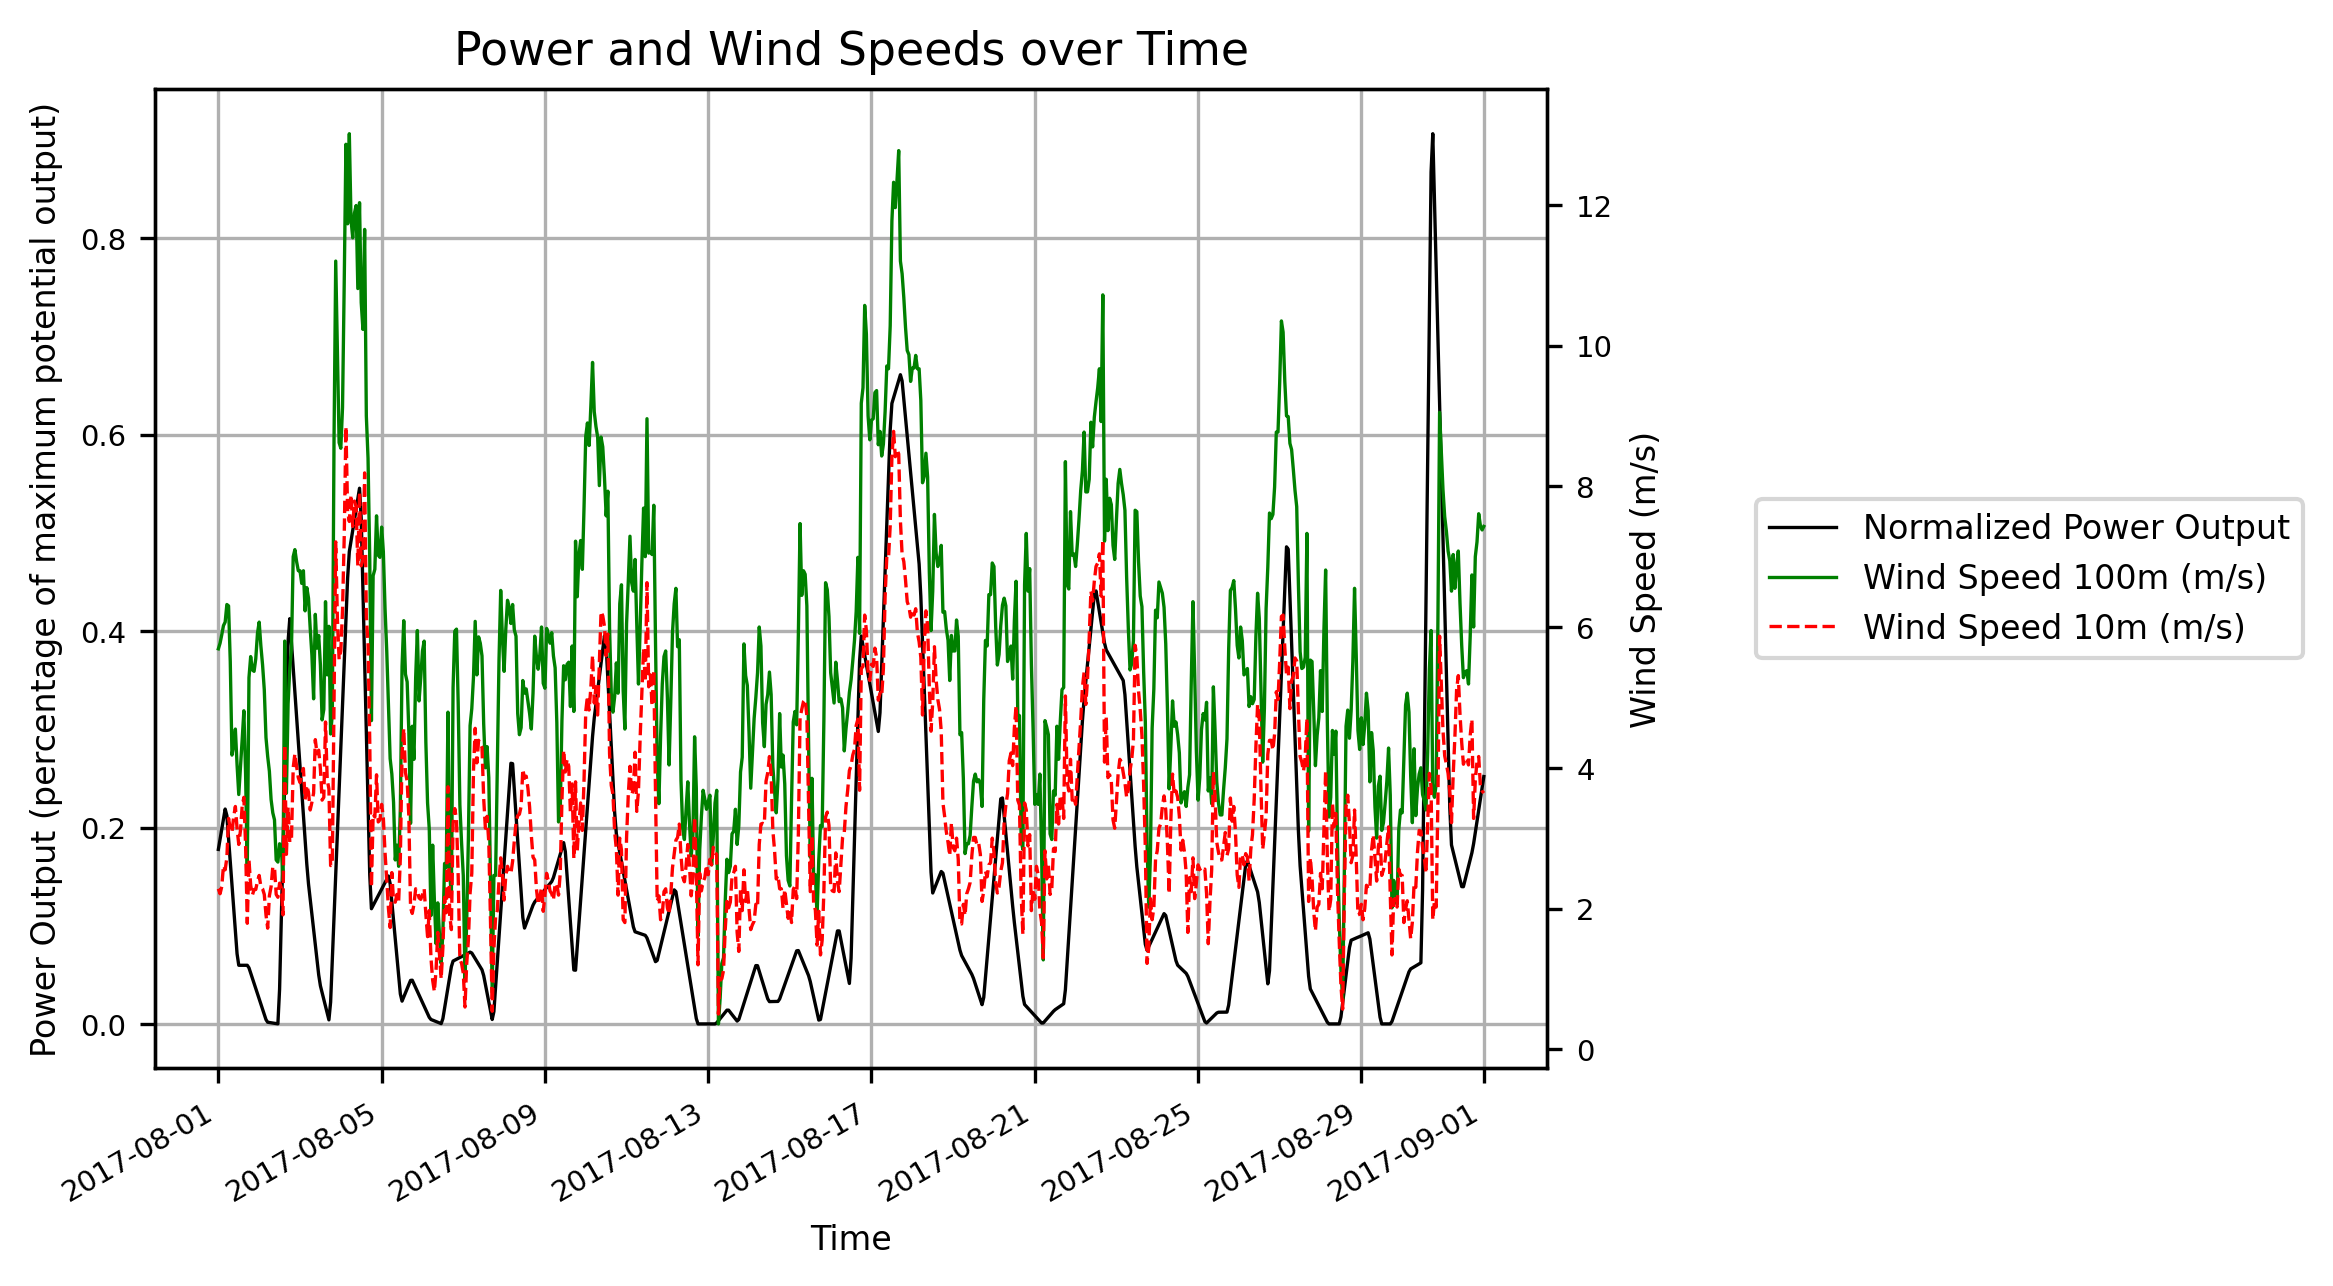
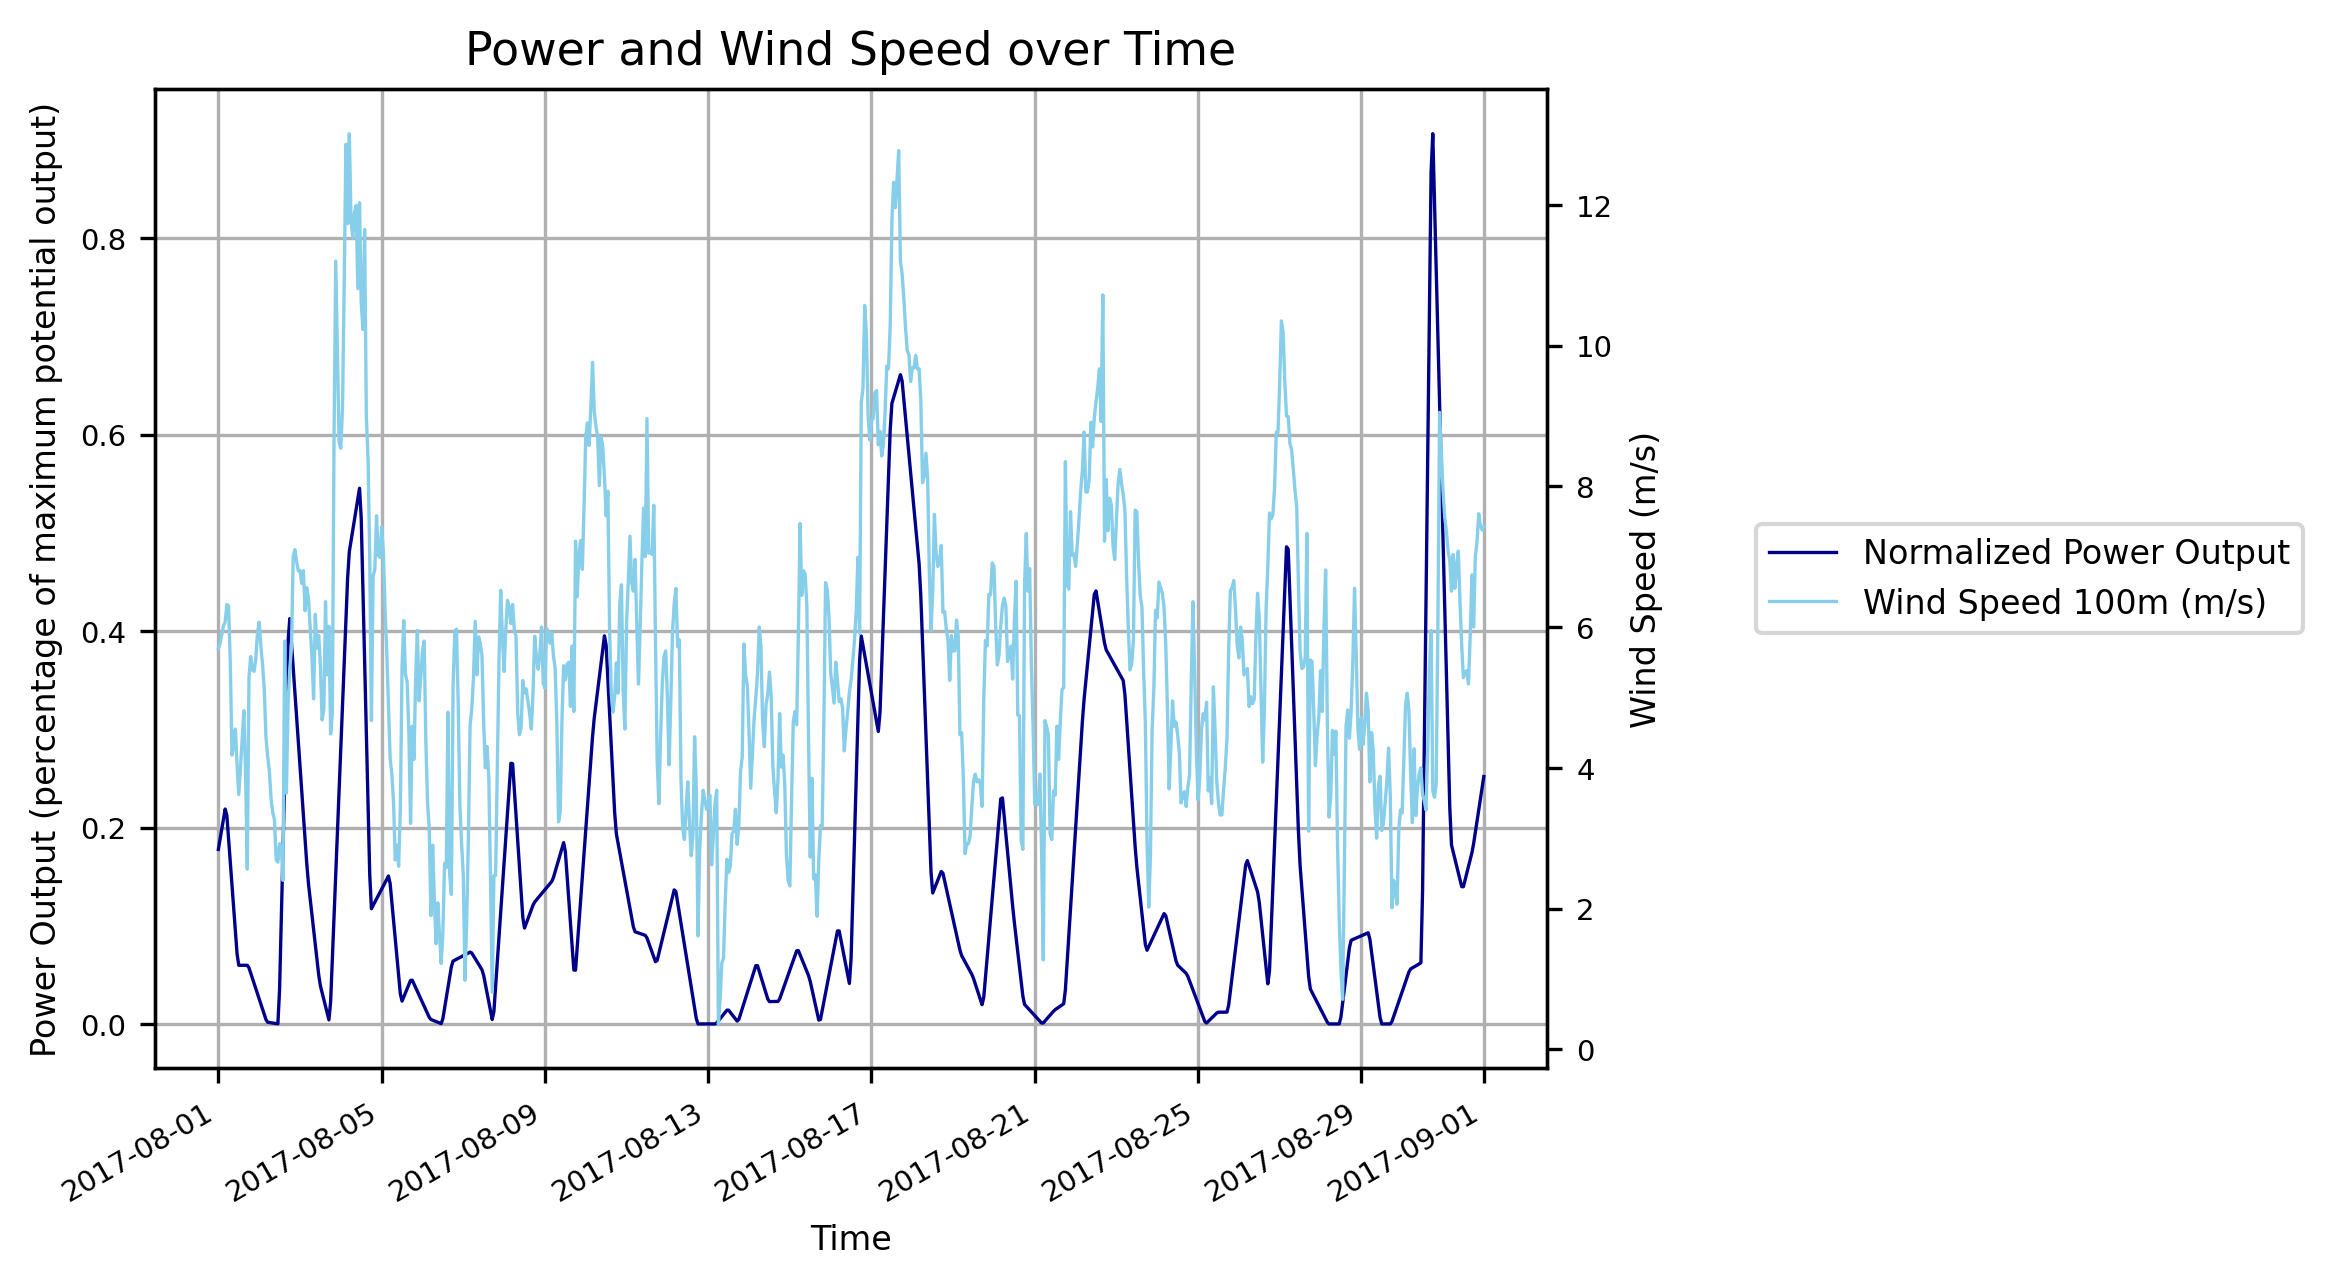
Updated error measures function, updated graph colours, updated README file

diff --git a/src/B_data_visualisation.py b/src/B_data_visualisation.py
@@ -33,27 +33,25 @@ def timeseries_plot(data, start_time, end_time):
 
     # We plot normalized power (first y-axis)
     line1, = ax1.plot(data_filtered['Time'], data_filtered['Power'], 
-                      color='black', linestyle='-', label='Normalized Power Output', linewidth=0.8)
+                      color='darkblue', linestyle='-', label='Normalized Power Output', linewidth=0.8)
 
     # We plot wind speeds on secondary y-axis
     ax2 = ax1.twinx()
     line2, = ax2.plot(data_filtered['Time'], data_filtered['windspeed_100m'],
-                      color='green', linestyle='-', label='Wind Speed 100m (m/s)', linewidth=0.8)
-    line3, = ax2.plot(data_filtered['Time'], data_filtered['windspeed_10m'],
-                      color='red', linestyle='--', label='Wind Speed 10m (m/s)', linewidth=0.8)
+                      color='skyblue', linestyle='-', label='Wind Speed 100m (m/s)', linewidth=0.8)
 
     # We add labels and title
     ax1.set_xlabel('Time', fontsize=8)
     ax1.set_ylabel('Power Output (percentage of maximum potential output)', fontsize=8)
     ax2.set_ylabel('Wind Speed (m/s)', fontsize=8)
-    plt.title("Power and Wind Speeds over Time", fontsize=11)
+    plt.title("Power and Wind Speed over Time", fontsize=11)
 
     # We set the size of the tick labelse
     ax1.tick_params(axis='both', which='major', labelsize=7)
     ax2.tick_params(axis='both', which='major', labelsize=7)
 
     # We combine legends
-    lines = [line1, line2, line3]
+    lines = [line1, line2]
     labels = [line.get_label() for line in lines]
     fig.subplots_adjust(right=0.85)
     ax1.legend(lines, labels, loc='center left', bbox_to_anchor=(1.15, 0.5), borderaxespad=0, fontsize=8)

diff --git a/examples/main.py b/examples/main.py
@@ -41,7 +41,6 @@ if __name__ == "__main__":
     # We split data into traning and test data
     X_train, y_train, X_test, y_test = data_split(data=data, splittype="Sequential", prediction_horizon=1) 
 
-    
     ### Persistence Model
     # We use the persistence model to predict power output
     y_pred = persistence_model(y_train=y_train, y_test=y_test, lag=1)
@@ -81,7 +80,6 @@ if __name__ == "__main__":
     scatter_actualvspred(y_pred, y_test, model_name="neural_network", prediction_horizon=1)
     plot_actualvspred(y_pred, y_test, model_name="neural_network", prediction_horizon=1, subset_start=2000, subset_end=4000)
     plot_actualvspred(y_pred, y_test, model_name="neural_network", prediction_horizon=1, subset_start=500, subset_end=700)
-    
     
     ### Forecast: 6 hours ahead 
     # Assuming no weather forecast is provided - forecast is based on current and past weather data and power output

diff --git a/src/F_error_calcs.py b/src/F_error_calcs.py
@@ -23,10 +23,10 @@ def error_measures(y_pred, y_test, model_name, prediction_horizon):
     y_test = y_test.values
 
     # We calculate errors 
-    MAE = mean_absolute_error(y_pred, y_test)
-    MSE = mean_squared_error(y_pred, y_test)
-    RMSE = root_mean_squared_error(y_pred, y_test)
-    R2 = r2_score(y_pred, y_test)
+    MAE = mean_absolute_error(y_test, y_pred)
+    MSE = mean_squared_error(y_test, y_pred)
+    RMSE = root_mean_squared_error(y_test, y_pred)
+    R2 = r2_score(y_test, y_pred)
 
     # We put the errors into a dataframe
     error_output = {'Prediction Horizon': [prediction_horizon], 'Prediction Model Name': [model_name], 'Mean Absolute Error': [MAE], 'Mean Squared Error': [MSE], 'Root Mean Square Error': [RMSE], 'R Squared': [R2]}

diff --git a/README.md b/README.md
@@ -57,14 +57,12 @@ The model is divided into the following folders, modules, and packages:
 
 Underneath diagram shows the architecture of the model. 
 
-The blue box represents the external raw data with historical meteorological observations and wind power generation data. The white boxes are data preparation steps. In these steps the data from the blue box is loaded into the model, cleaned, updated with new variables, and split into four data sets (X_train, y_train, X_test and y_test). The four data sets are used in the forecasting models to train and test the performance of the models. 
+The blue box represents the external raw data with historical meteorological observations and wind power generation data. The white boxes are data preparation steps. In these steps, the data from the blue box is loaded into the model, cleaned, updated with new variables, and split into four data sets (X_train, y_train, X_test, and y_test). The four data sets are used in the forecasting models to train and test the performance of the models. 
 
-The coloured boxes (green and orange) are the actual forecasting models. The cleaned and split data from the white boxes goes into these models to be trained and tested. The green boxes are forecasting models defined by functions. The persistence model is a simple and naive forecasting method for which it is assumed that the current power production would be the power production in e.g., one or six hours. The random forest model is a ML model that uses decision trees to find patterns in the data and forecast the power production. 
+The coloured boxes (green and orange) are the actual forecasting models. The cleaned and split data from the white boxes go into these models to be trained and tested. The green boxes are forecasting models defined by functions. The persistence model is a simple and naive forecasting method, for which it is assumed that the current power production will be the power production in, e.g., one or six hours. The random forest model is a machine learning (ML) model using decision trees to find patterns in the data and forecast the power production. 
 
-The orange box is a forecasting model defined by a class. In this class we have defined a model for forecasting the power output using a neural network ML model that learns patterns from interconnected neurons. In the class the function variables are defined, and a function is built to first drop irrelevant variables and second define and train the ML model. For the neural network model, both Keras and the MLPregressor from scikit-learn can be used to train the model. The class is defined in the ***src/E_neural_network_model.py*** file.
+The orange box is a forecasting model defined by a class. In this class, I have defined a model for forecasting the power output using a neural network ML model that learns patterns from interconnected neurons. In the class, the class variables are defined, and a function is built to first drop irrelevant variables and second define and train the ML model. For the neural network model, both Keras and the MLPRegressor from scikit-learn can be used to train the model. The class is defined in the ***src/E_neural_network_model.py*** file.
 
-They grey boxes indicate graph plotting functions. These makes graph plots of either the raw data or the predicted outputs from the forecasting models. The three boxes connected to the blue raw data box are functions plotting the raw data. The graphs produced by these functions have been used in the preliminary phases of the model development to get a sense of the relationships between power output and explanatory variables. Additionally, there are functions plotting the predicted power output against the actual power output. These plots can be used to get a visual sense of the models’ performances. Lastly, the pink box indicates a function that calculates the error measures of the forecasting models. These error measures are a powerful way to compare the performance of the different models.
+The grey boxes indicate graph plotting functions. These make graph plots of either the input data or the predicted outputs from the forecasting models. The three boxes connected to one of the white boxes are functions plotting the model input data. The graphs produced by these functions have been used in the preliminary phases of the ML models’ development to get a sense of the relationships between power output and explanatory variables. Additionally, functions are plotting the predicted power output against the actual power output. These plots can give a visual understanding of the models’ performance. Lastly, the pink box indicates a function calculating the error measures of the forecasting models. These error measures are a powerful way to compare the performance of the different models.
 
-<img width="720" height="405" alt="Image" src="https://github.com/user-attachments/assets/ba03255c-f3be-47d3-9eec-72539c0a2b11" />
-
-
+![Image](https://github.com/user-attachments/assets/972795ce-a645-4704-8c11-36c3365a57f2)
